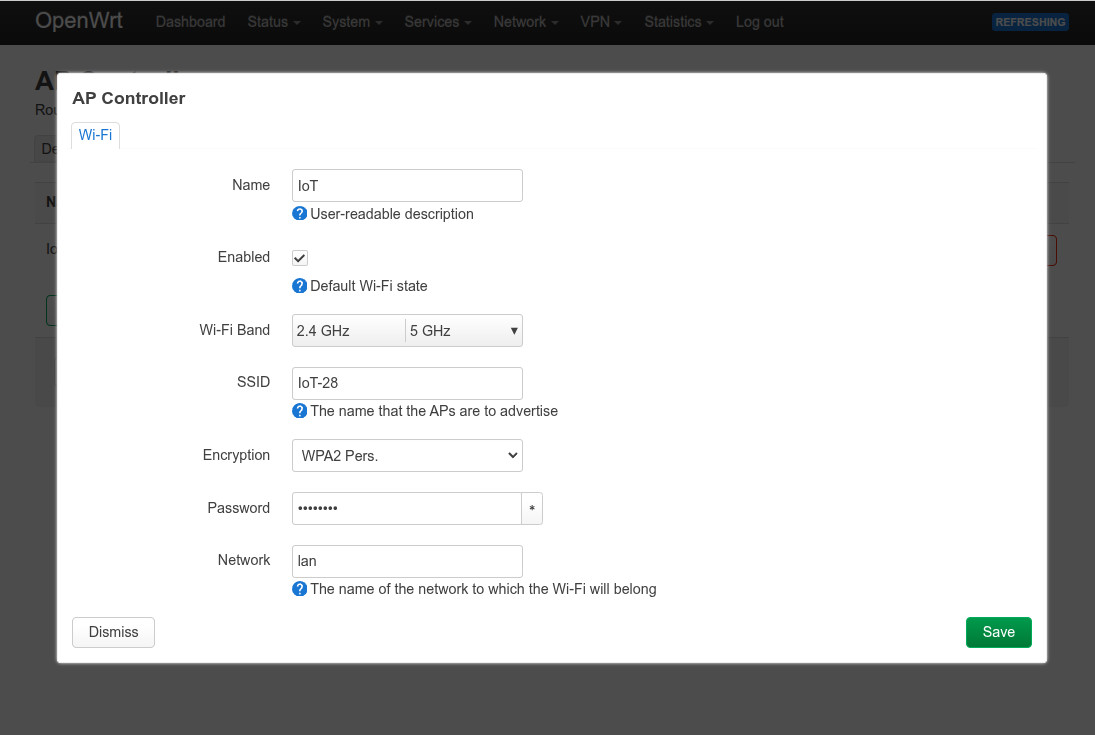
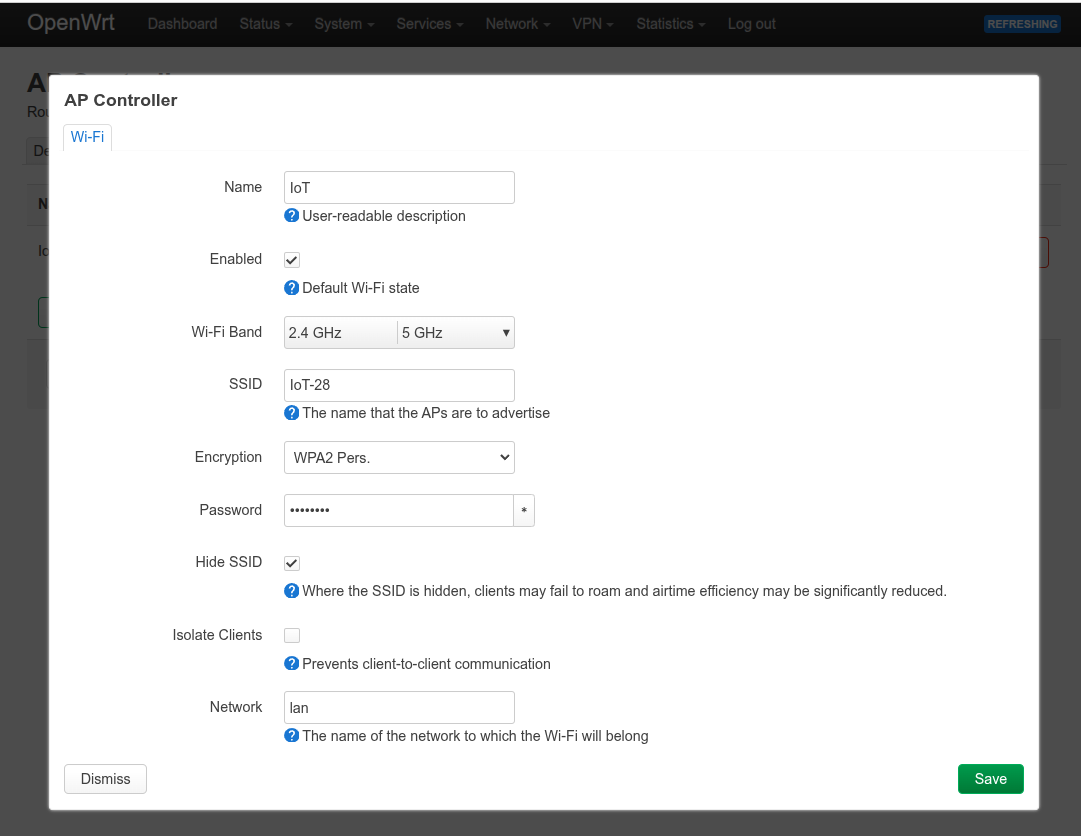
Add hidden & isolate option

diff --git a/luci-app-apcontroller/htdocs/luci-static/resources/view/apcontroller/apcontroller.js b/luci-app-apcontroller/htdocs/luci-static/resources/view/apcontroller/apcontroller.js
@@ -993,6 +993,16 @@ return view.extend({
 		o.datatype = 'wpakey';
 		o.password = true;
 
+		o = s.taboption('wifi', form.Flag, 'hidden', _('Hide SSID'), _('Do not show network name'));
+		o.modalonly = true;
+		o.rmempty = false;
+		o.default = '0';
+
+		o = s.taboption('wifi', form.Flag, 'isolate', _('Isolate Clients'), _('Prevents client-to-client communication'));
+		o.modalonly = true;
+		o.rmempty = false;
+		o.default = '0';
+
 		o = s.taboption('wifi', form.Value, 'network', _('Network'), _('The name of the network to which the Wi-Fi will belong'));
 		o.modalonly = true;
 		o.rmempty = false;
